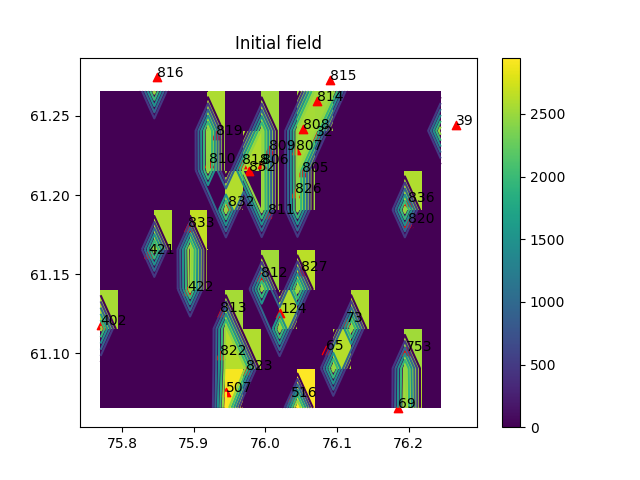
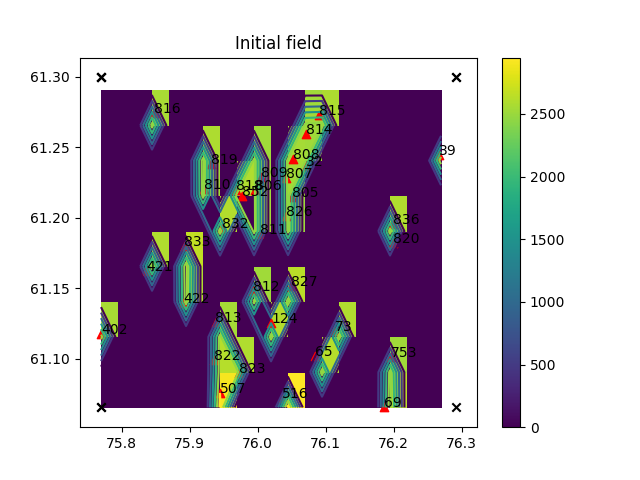
fix max_lat, max_lon variables

diff --git a/plot_artist.py b/plot_artist.py
@@ -4,11 +4,17 @@ from scipy import interpolate
 import matplotlib.pyplot as plt
 
 
-def plot_xyz(x, y, z, xnew, ynew, plot_points):
+def plot_xyz(x, y, z, xnew, ynew, plot_points, rect):
     plt.figure()
     pc = plt.pcolor(x, y, z)
     plt.contour(x, y, z)
     plt.colorbar(pc)
+    max_lat, max_lon, min_lat, min_lon = rect
+
+    plt.scatter([min_lat, max_lat], [min_lon, max_lon], marker='x', color='black')
+    plt.scatter([min_lat, min_lat], [max_lon, max_lon], marker='x', color='black')
+    plt.scatter([max_lat, min_lat], [max_lon, min_lon], marker='x', color='black')
+    plt.scatter([max_lat, min_lat], [min_lon, max_lon], marker='x', color='black')
 
     if plot_points:
         plt.scatter(plot_points[0], plot_points[1], marker='^', color='red')

diff --git a/parse_isoline.py b/parse_isoline.py
@@ -27,6 +27,9 @@ if __name__ == '__main__':
     min_lon, max_lon = lons_init.min(), lons_init.max()
     min_lat, max_lat = lats_init.min(), lats_init.max()
 
+    max_lon += 0.025
+    max_lat += 0.025
+
     rect = max_lat, max_lon, min_lat, min_lon
     print(min_lon, min_lat)
     print(max_lon, max_lat)
@@ -53,4 +56,4 @@ if __name__ == '__main__':
             print('@@@@@@@@', name, plat, plon)
 
     plot_points = [lats_init, lons_init, names]
-    plot_xyz(x, y, z, xnew, ynew, plot_points)
+    plot_xyz(x, y, z, xnew, ynew, plot_points, rect)
